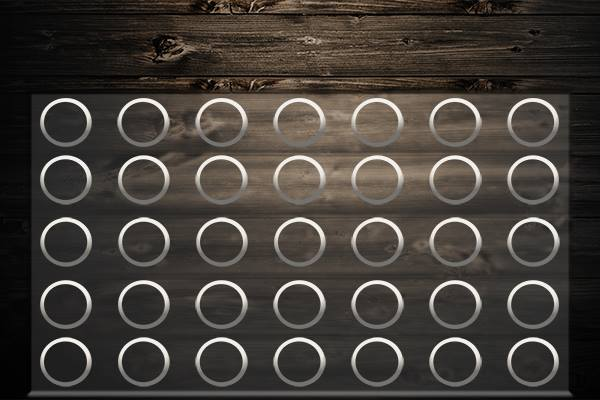
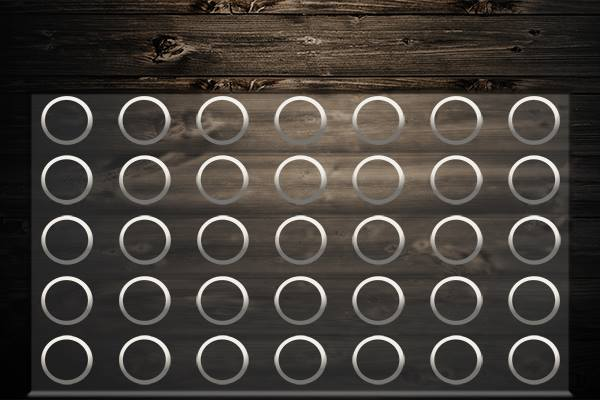
some gui changes

diff --git a/src/GUI/ControllerField.java b/src/GUI/ControllerField.java
@@ -137,8 +137,6 @@ public class ControllerField implements Initializable {
 				if (coin == true) {
 					Label l = new Label("");
 					l.setGraphic(new ImageView(imageGreen));
-					l.setMaxHeight(58);
-					l.setMaxWidth(65);
 					grid.setRowIndex(l, row);
 					grid.setColumnIndex(l, col);
 
@@ -148,8 +146,6 @@ public class ControllerField implements Initializable {
 				else {
 					Label l = new Label("");
 					l.setGraphic(new ImageView(imageBlue));
-					l.setMaxHeight(58);
-					l.setMaxWidth(65);
 					grid.setRowIndex(l, row);
 					grid.setColumnIndex(l, col);
 
